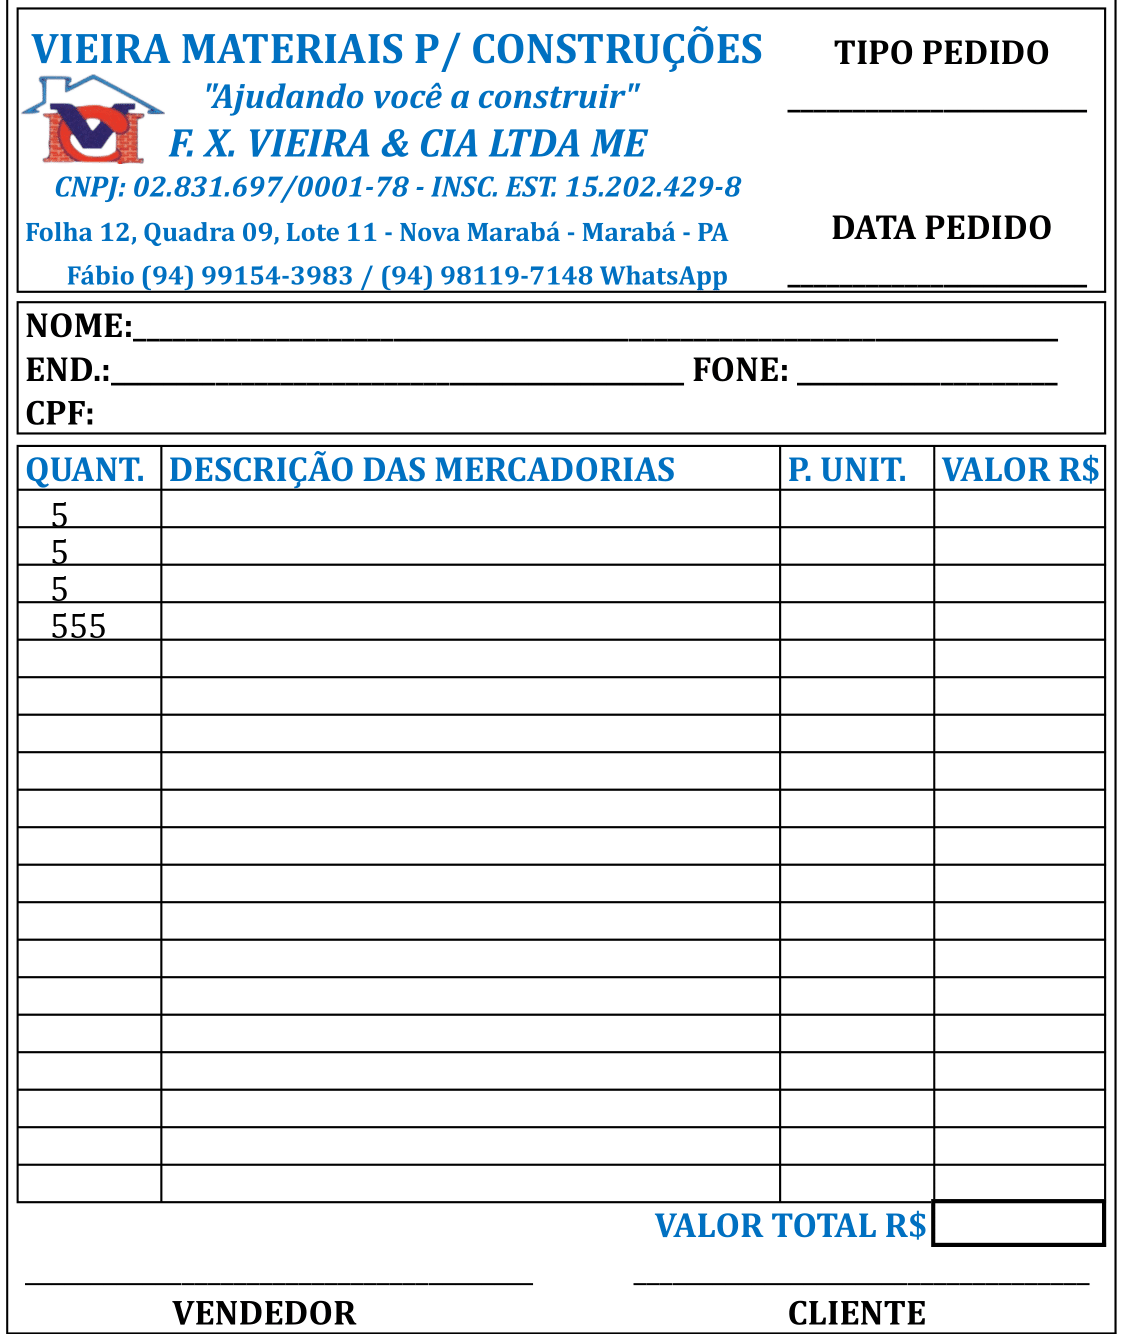
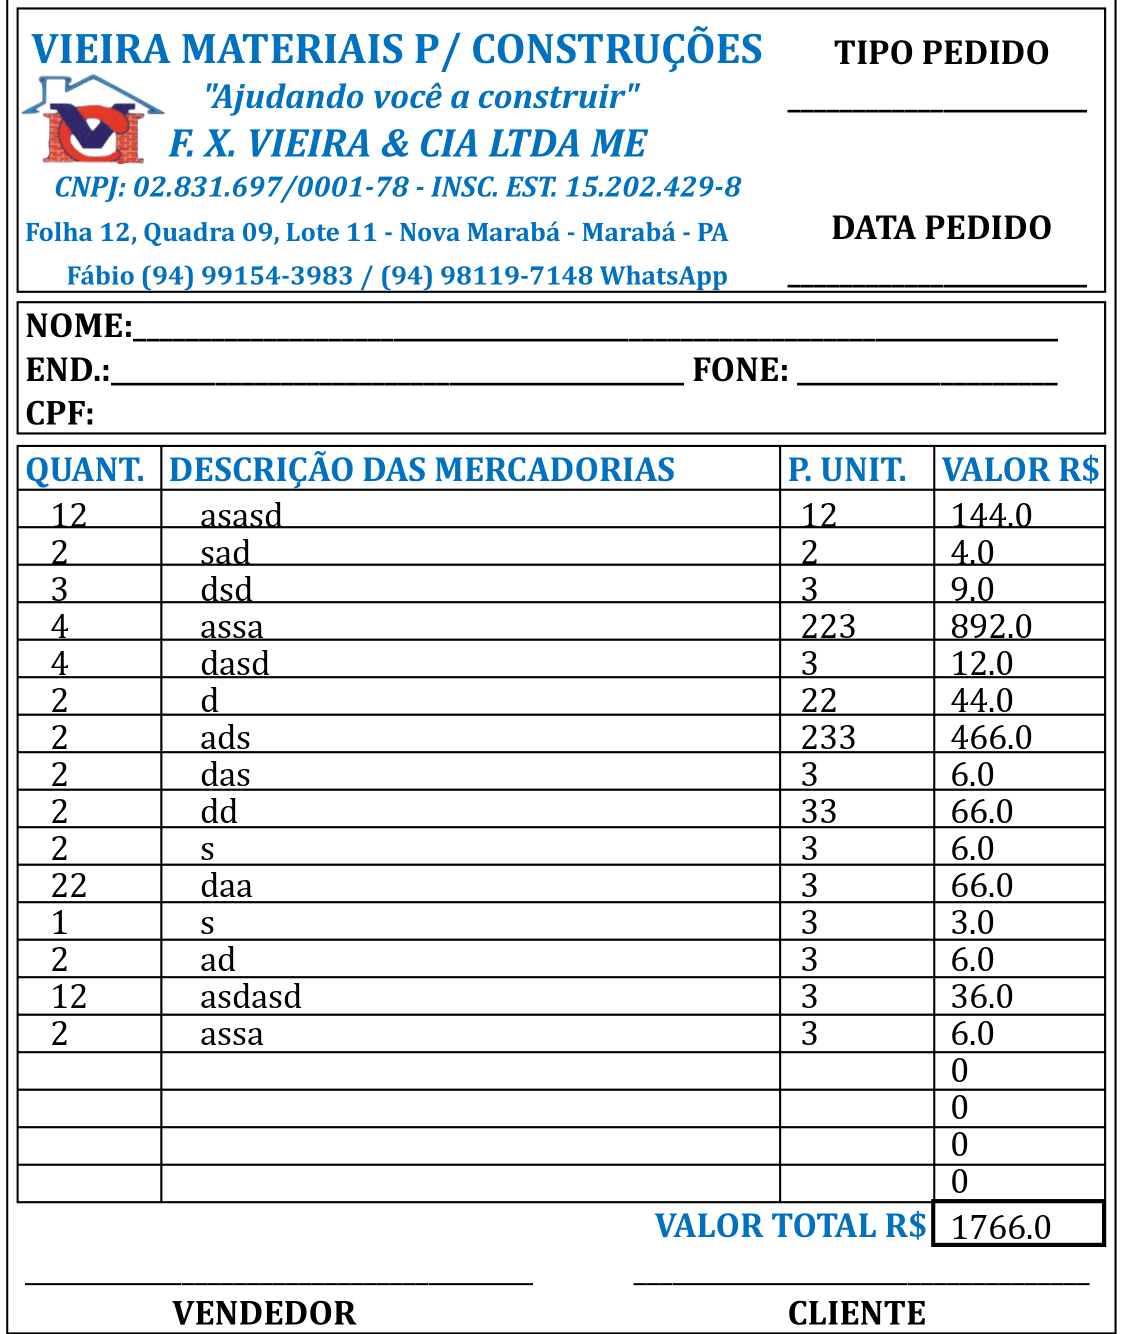
Adicionei_Valor_final_e_os_valoresprodutos
adicionei agora na imagem os valores referente ao produto entre o preço da mercadoria e a quantidade, e tambem adicionei na imagem o valor total

diff --git a/App_Loja/App_Loja.py b/App_Loja/App_Loja.py
@@ -5,6 +5,7 @@ from PIL import Image
 from PIL import ImageDraw
 from PIL import ImageFont
 
+
        
 def colocar_texto(imagem,entrada1,x,y,tamanho):
     
@@ -25,7 +26,7 @@ def colocar_texto_float(imagem,entrada,x,y,tamanho):
 
 
 def calcular_final():
-
+    global soma_total
     try:
         limpar_resultados()
 
@@ -41,12 +42,14 @@ def calcular_final():
 
             produto = qtd * val
 
-            resultados[i].config(text=f"Resultado R$:{produto}")
+            
+            resultados[i].config(text=f"R$:{produto}")
+            resultados[i] = produto
 
             soma_total += produto
 
         resultado_final.config(text=f"Valor total R$:{soma_total}")
-
+        
     except ValueError:
 
         resultado_final.config(text="Por favor, insira valores válidos!")
@@ -78,21 +81,35 @@ def botao():
 
     entrada6 = entrada_cpf.get()
     colocar_texto(imagem, entrada6, 100, 395, 35)
-    
 
-    # entrada7 = entrada_quant_iten[0].get()
-    # colocar_texto_float(imagem, entrada7, 50, 493, 35)
-    # entrada8 = entrada_quant_iten[2].get()
-    # colocar_texto_float(imagem, entrada8, 50, 604, 35)
-
-    entrada = []
+    entrada_qtd = []
     for i in range(19):
+        entradas_qtd = entrada_quant_iten[i].get()
+        entrada_qtd.append(entradas_qtd)
+        colocar_texto_float(imagem, entrada_qtd[i] ,50,493+(37*i),35)
+    
+    entrada_nm = []
+    for i in range(19):
+       entradas_nm = entrada_nome_iten[i].get()
+       entrada_nm.append(entradas_nm)
+       colocar_texto(imagem,entrada_nm[i], 200,493+(37*i),35)
 
-        entradas = entrada_quant_iten[i].get()
-        entrada.append(entradas)
-        colocar_texto_float(imagem, entrada[i] ,50,493+(37*i),35)
+    entrada_vlr = []
+    for i in range(19):
+        entradas_vlr = entrada_valor_iten[i].get()
+        entrada_vlr.append(entradas_vlr)
+        colocar_texto_float(imagem,entrada_vlr[i], 800,493+(37*i),35)
 
     calcular_final()
+
+    texto_resultado = []
+    for i in range(19):
+        textos = resultados[i]
+        texto_resultado.append(textos)
+        colocar_texto_float(imagem, texto_resultado[i],950,493+(37*i),35)
+
+    entrada7 = soma_total
+    colocar_texto_float(imagem,entrada7, 950,1205,35)
 
 
     imagem.save("App_Loja/Nota_edit.png")
@@ -139,6 +156,7 @@ Label(tela, text = "\nInformações Itens: ").grid(row=8, sticky=W)
 entrada_quant_iten = []
 entrada_valor_iten = []
 resultados = []
+entrada_nome_iten = []
 
 
 for contador in range(19):
@@ -149,8 +167,9 @@ for contador in range(19):
     entrada_quant_iten.append(quant_iten)
     
     Label(tela, text = " Nome Item: ").grid(row=(9+contador), column=2, sticky=W)
-    entrada_nome_iten = Entry(tela)
-    entrada_nome_iten.grid(row=(9+contador), column=3)
+    nome_iten = Entry(tela)
+    nome_iten.grid(row=(9+contador), column=3)
+    entrada_nome_iten.append(nome_iten)
 
     Label(tela, text = " Valor Unidade R$: ").grid(row=(9+contador), column=4, sticky=W)
     valor_iten = Entry(tela)
